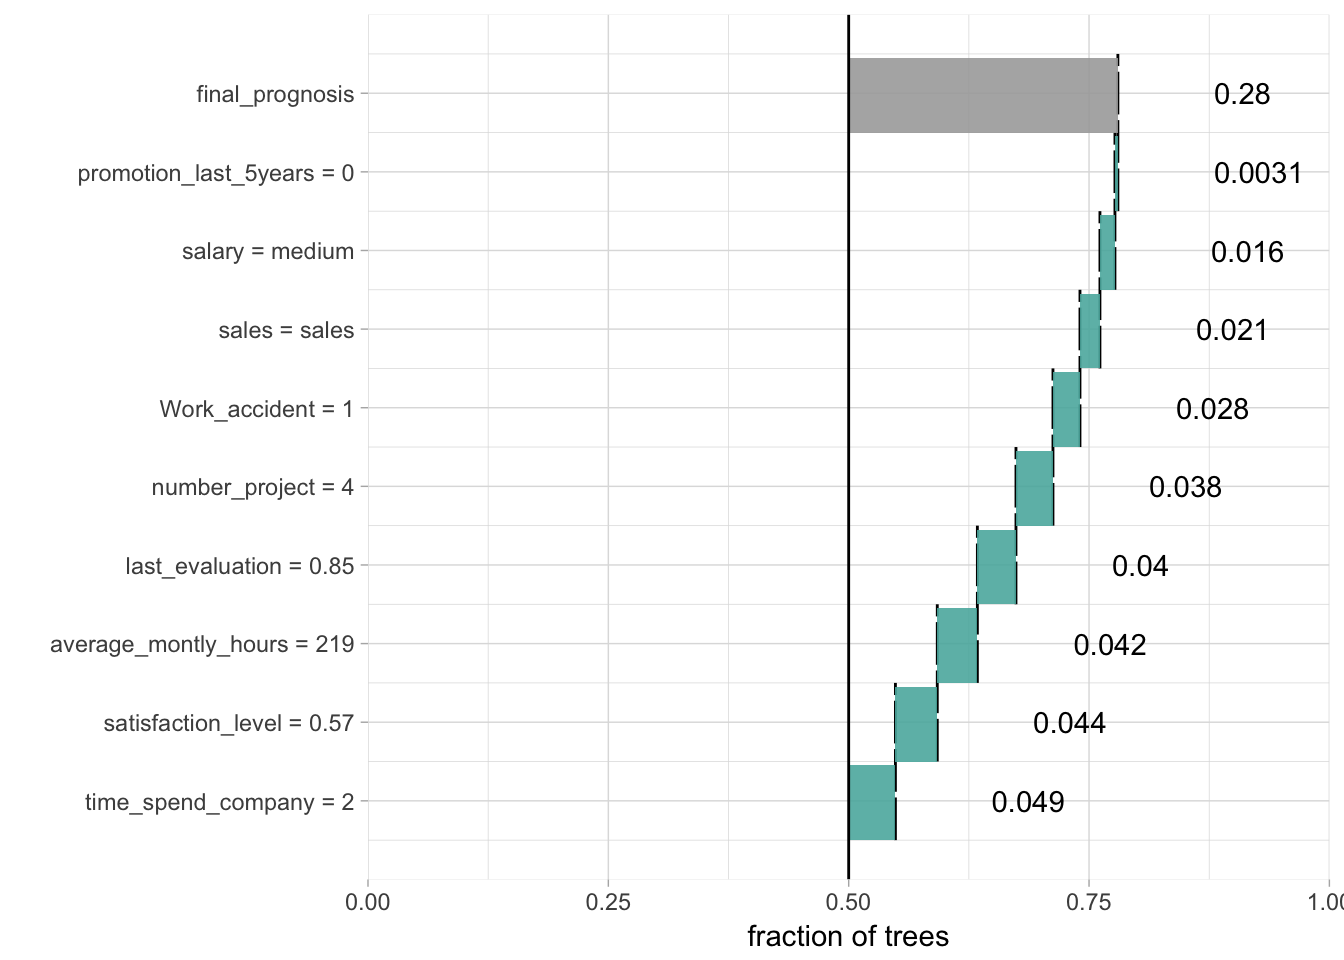
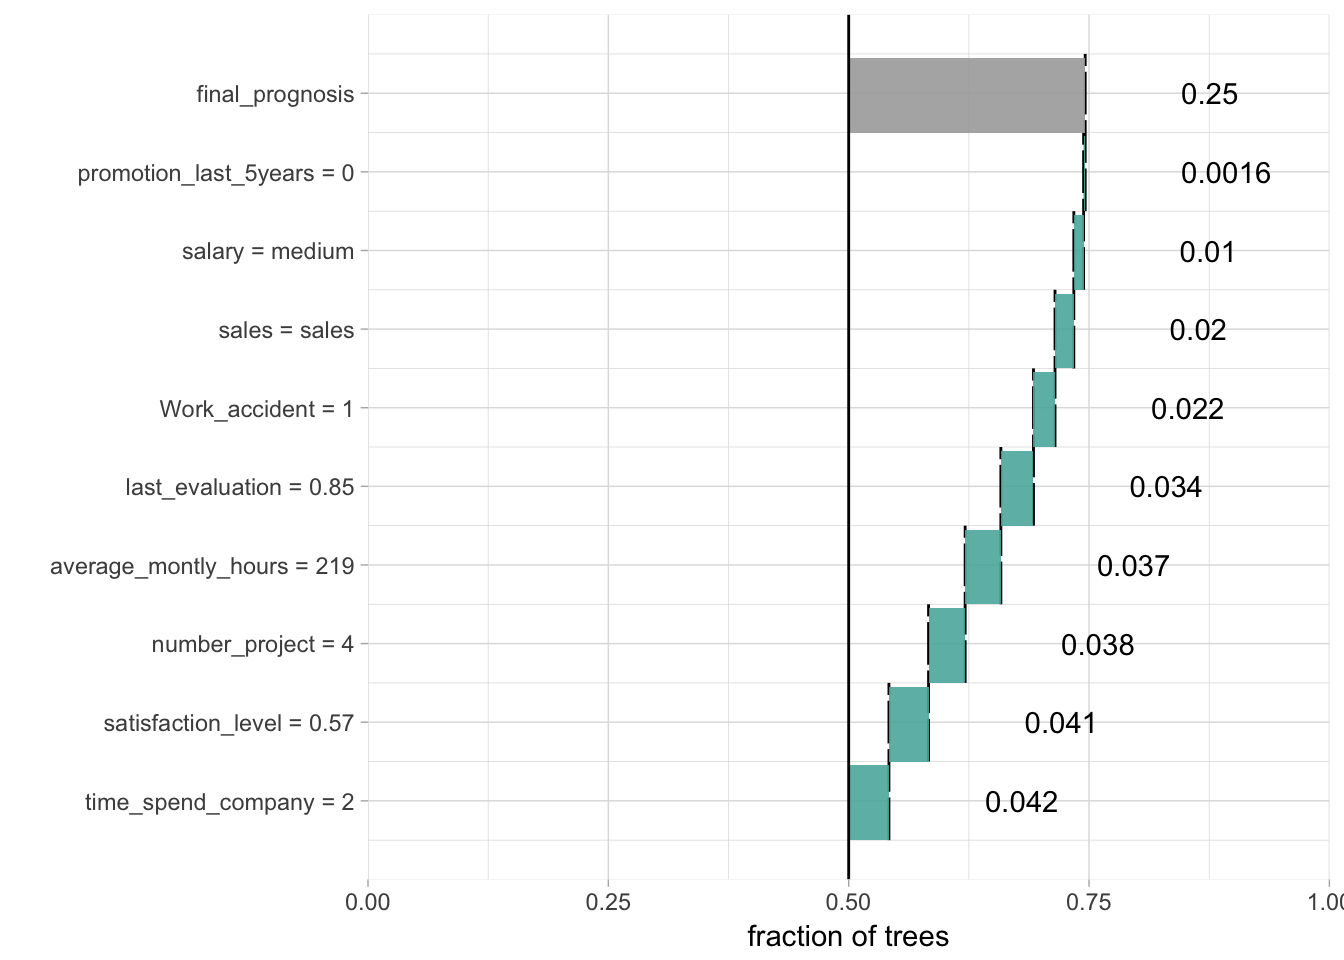
updated site

diff --git a/docs/articles/break_ranger.html b/docs/articles/break_ranger.html
@@ -76,7 +76,7 @@
       <h1>breakDown plots for the ranger model</h1>
                         <h4 class="author">Przemyslaw Biecek</h4>
             
-            <h4 class="date">2017-12-02</h4>
+            <h4 class="date">2017-12-03</h4>
           </div>
 
     
@@ -101,11 +101,11 @@ model &lt;-<span class="st"> </span><span class="kw"><a href="http://www.rdocume
 <p>Variable importance for all trees in the forest.</p>
 <div class="sourceCode"><pre class="sourceCode r"><code class="sourceCode r"><span class="kw"><a href="http://www.rdocumentation.org/packages/ranger/topics/importance.ranger">importance</a></span>(model)
 <span class="co">#&gt;    satisfaction_level       last_evaluation        number_project </span>
-<span class="co">#&gt;           1786.046899            618.803617            987.848183 </span>
+<span class="co">#&gt;           1816.329069            608.885685            976.219952 </span>
 <span class="co">#&gt;  average_montly_hours    time_spend_company         Work_accident </span>
-<span class="co">#&gt;            752.309013            989.511008             27.751059 </span>
+<span class="co">#&gt;            750.806656            982.629628             29.058430 </span>
 <span class="co">#&gt; promotion_last_5years                 sales                salary </span>
-<span class="co">#&gt;              4.687921             41.615393             29.416582</span></code></pre></div>
+<span class="co">#&gt;              4.098245             41.082905             29.091604</span></code></pre></div>
 <p>But how to understand which factors drive predictions for a single observation?</p>
 <p>With the <code>breakDown</code> package!</p>
 <p>Explanations for the trees votings.</p>
@@ -113,16 +113,16 @@ model &lt;-<span class="st"> </span><span class="kw"><a href="http://www.rdocume
 explain_<span class="dv">1</span> &lt;-<span class="st"> </span><span class="kw"><a href="../reference/broken.html">broken</a></span>(model, HR_data[<span class="dv">1159</span>,])
 explain_<span class="dv">1</span>
 <span class="co">#&gt;                            contribution</span>
-<span class="co">#&gt; time_spend_company = 2           0.0490</span>
-<span class="co">#&gt; satisfaction_level = 0.57        0.0440</span>
-<span class="co">#&gt; average_montly_hours = 219       0.0420</span>
-<span class="co">#&gt; last_evaluation = 0.85           0.0400</span>
+<span class="co">#&gt; time_spend_company = 2           0.0420</span>
+<span class="co">#&gt; satisfaction_level = 0.57        0.0410</span>
 <span class="co">#&gt; number_project = 4               0.0380</span>
-<span class="co">#&gt; Work_accident = 1                0.0280</span>
-<span class="co">#&gt; sales = sales                    0.0210</span>
-<span class="co">#&gt; salary = medium                  0.0160</span>
-<span class="co">#&gt; promotion_last_5years = 0        0.0031</span>
-<span class="co">#&gt; final_prognosis                  0.2800</span>
+<span class="co">#&gt; average_montly_hours = 219       0.0370</span>
+<span class="co">#&gt; last_evaluation = 0.85           0.0340</span>
+<span class="co">#&gt; Work_accident = 1                0.0220</span>
+<span class="co">#&gt; sales = sales                    0.0200</span>
+<span class="co">#&gt; salary = medium                  0.0100</span>
+<span class="co">#&gt; promotion_last_5years = 0        0.0016</span>
+<span class="co">#&gt; final_prognosis                  0.2500</span>
 <span class="co">#&gt; baseline:  0.5</span>
 <span class="kw">plot</span>(explain_<span class="dv">1</span>) <span class="op">+</span><span class="st"> </span><span class="kw"><a href="http://www.rdocumentation.org/packages/ggplot2/topics/scale_continuous">scale_y_continuous</a></span>( <span class="dt">limits =</span> <span class="kw">c</span>(<span class="dv">0</span>,<span class="dv">1</span>), <span class="dt">name =</span> <span class="st">"fraction of trees"</span>, <span class="dt">expand =</span> <span class="kw">c</span>(<span class="dv">0</span>,<span class="dv">0</span>))
 <span class="co">#&gt; Scale for 'y' is already present. Adding another scale for 'y', which</span>
@@ -132,16 +132,16 @@ explain_<span class="dv">1</span>
 explain_<span class="dv">1</span> &lt;-<span class="st"> </span><span class="kw"><a href="../reference/broken.html">broken</a></span>(model, HR_data[<span class="dv">10099</span>,])
 explain_<span class="dv">1</span>
 <span class="co">#&gt;                            contribution</span>
-<span class="co">#&gt; time_spend_company = 5           -0.050</span>
-<span class="co">#&gt; average_montly_hours = 266       -0.050</span>
-<span class="co">#&gt; satisfaction_level = 0.73        -0.050</span>
-<span class="co">#&gt; last_evaluation = 0.83           -0.049</span>
-<span class="co">#&gt; number_project = 5               -0.049</span>
-<span class="co">#&gt; salary = low                     -0.026</span>
-<span class="co">#&gt; Work_accident = 0                -0.024</span>
-<span class="co">#&gt; sales = sales                    -0.019</span>
-<span class="co">#&gt; promotion_last_5years = 0        -0.013</span>
-<span class="co">#&gt; final_prognosis                  -0.330</span>
+<span class="co">#&gt; time_spend_company = 5          -0.0440</span>
+<span class="co">#&gt; satisfaction_level = 0.73       -0.0440</span>
+<span class="co">#&gt; average_montly_hours = 266      -0.0440</span>
+<span class="co">#&gt; number_project = 5              -0.0430</span>
+<span class="co">#&gt; last_evaluation = 0.83          -0.0430</span>
+<span class="co">#&gt; salary = low                    -0.0220</span>
+<span class="co">#&gt; sales = sales                   -0.0190</span>
+<span class="co">#&gt; Work_accident = 0               -0.0150</span>
+<span class="co">#&gt; promotion_last_5years = 0       -0.0083</span>
+<span class="co">#&gt; final_prognosis                 -0.2800</span>
 <span class="co">#&gt; baseline:  0.5</span>
 <span class="kw">plot</span>(explain_<span class="dv">1</span>) <span class="op">+</span><span class="st"> </span><span class="kw"><a href="http://www.rdocumentation.org/packages/ggplot2/topics/scale_continuous">scale_y_continuous</a></span>( <span class="dt">limits =</span> <span class="kw">c</span>(<span class="dv">0</span>,<span class="dv">1</span>), <span class="dt">name =</span> <span class="st">"fraction of trees"</span>, <span class="dt">expand =</span> <span class="kw">c</span>(<span class="dv">0</span>,<span class="dv">0</span>))
 <span class="co">#&gt; Scale for 'y' is already present. Adding another scale for 'y', which</span>

diff --git a/docs/reference/broken.glm.html b/docs/reference/broken.glm.html
@@ -144,7 +144,7 @@
 <span class='no'>new_observation</span> <span class='kw'>&lt;-</span> <span class='no'>wine</span>[<span class='fl'>1</span>,]
 <span class='no'>br</span> <span class='kw'>&lt;-</span> <span class='fu'><a href='broken.html'>broken</a></span>(<span class='no'>modelg</span>, <span class='no'>new_observation</span>)
 <span class='no'>logit</span> <span class='kw'>&lt;-</span> <span class='kw'>function</span>(<span class='no'>x</span>) <span class='fu'>exp</span>(<span class='no'>x</span>)/(<span class='fl'>1</span>+<span class='fu'>exp</span>(<span class='no'>x</span>))
-<span class='fu'>plot</span>(<span class='no'>br</span>, <span class='no'>logit</span>)</div><div class='img'><img src='broken.glm-28.png' alt='' width='700' height='432.632880098887' /></div><div class='input'>
+<span class='fu'>plot</span>(<span class='no'>br</span>, <span class='no'>logit</span>)</div><div class='img'><img src='broken.glm-31.png' alt='' width='700' height='432.632880098887' /></div><div class='input'>
 <span class='co'># example for HR_data</span>
 <span class='no'>model</span> <span class='kw'>&lt;-</span> <span class='fu'>glm</span>(<span class='no'>left</span>~<span class='no'>.</span>, <span class='kw'>data</span> <span class='kw'>=</span> <span class='no'>HR_data</span>, <span class='kw'>family</span> <span class='kw'>=</span> <span class='st'>"binomial"</span>)
 <span class='no'>explain_1</span> <span class='kw'>&lt;-</span> <span class='fu'><a href='broken.html'>broken</a></span>(<span class='no'>model</span>, <span class='no'>HR_data</span>[<span class='fl'>1</span>,])
@@ -160,7 +160,7 @@
 #&gt; promotion_last_5years = 0         0.030
 #&gt; sales = sales                     0.014
 #&gt; final_prognosis                   0.120
-#&gt; baseline:  0 </div><div class='input'><span class='fu'>plot</span>(<span class='no'>explain_1</span>)</div><div class='img'><img src='broken.glm-29.png' alt='' width='700' height='432.632880098887' /></div><div class='input'><span class='fu'>plot</span>(<span class='no'>explain_1</span>, <span class='kw'>trans</span> <span class='kw'>=</span> <span class='kw'>function</span>(<span class='no'>x</span>) <span class='fu'>exp</span>(<span class='no'>x</span>)/(<span class='fl'>1</span>+<span class='fu'>exp</span>(<span class='no'>x</span>)))</div><div class='img'><img src='broken.glm-30.png' alt='' width='700' height='432.632880098887' /></div><div class='input'>
+#&gt; baseline:  0 </div><div class='input'><span class='fu'>plot</span>(<span class='no'>explain_1</span>)</div><div class='img'><img src='broken.glm-32.png' alt='' width='700' height='432.632880098887' /></div><div class='input'><span class='fu'>plot</span>(<span class='no'>explain_1</span>, <span class='kw'>trans</span> <span class='kw'>=</span> <span class='kw'>function</span>(<span class='no'>x</span>) <span class='fu'>exp</span>(<span class='no'>x</span>)/(<span class='fl'>1</span>+<span class='fu'>exp</span>(<span class='no'>x</span>)))</div><div class='img'><img src='broken.glm-33.png' alt='' width='700' height='432.632880098887' /></div><div class='input'>
 </div></pre>
   </div>
   <div class="col-md-3 hidden-xs hidden-sm" id="sidebar">

diff --git a/docs/reference/broken.ranger.html b/docs/reference/broken.ranger.html
@@ -157,7 +157,7 @@
 #&gt; Work_accident = 0                0.0016
 #&gt; final_prognosis                  0.0300
 #&gt; baseline:  0.5 </div><div class='input'><span class='fu'>plot</span>(<span class='no'>explain_1</span>) + <span class='fu'>ggtitle</span>(<span class='st'>"breakDown plot for linear predictors of leaving the company"</span>)+ <span class='fu'>scale_y_continuous</span>( <span class='kw'>limits</span> <span class='kw'>=</span> <span class='fu'>c</span>(<span class='fl'>0</span>,<span class='fl'>1</span>), <span class='kw'>name</span> <span class='kw'>=</span> <span class='st'>"fraction of trees"</span>, <span class='kw'>expand</span> <span class='kw'>=</span> <span class='fu'>c</span>(<span class='fl'>0.1</span>,<span class='fl'>0.1</span>))</div><div class='output co'>#&gt; <span class='message'>Scale for 'y' is already present. Adding another scale for 'y', which will</span>
-#&gt; <span class='message'>replace the existing scale.</span></div><div class='img'><img src='broken.ranger-5.png' alt='' width='700' height='432.632880098887' /></div><div class='input'>
+#&gt; <span class='message'>replace the existing scale.</span></div><div class='img'><img src='broken.ranger-6.png' alt='' width='700' height='432.632880098887' /></div><div class='input'>
 </div></pre>
   </div>
   <div class="col-md-3 hidden-xs hidden-sm" id="sidebar">

diff --git a/docs/reference/broken.lm.html b/docs/reference/broken.lm.html
@@ -139,7 +139,7 @@
     <pre class="examples"><div class='input'><span class='no'>model</span> <span class='kw'>&lt;-</span> <span class='fu'>lm</span>(<span class='no'>Sepal.Length</span>~<span class='no'>.</span>, <span class='kw'>data</span><span class='kw'>=</span><span class='no'>iris</span>)
 <span class='no'>new_observation</span> <span class='kw'>&lt;-</span> <span class='no'>iris</span>[<span class='fl'>1</span>,]
 <span class='no'>br</span> <span class='kw'>&lt;-</span> <span class='fu'><a href='broken.html'>broken</a></span>(<span class='no'>model</span>, <span class='no'>new_observation</span>)
-<span class='fu'>plot</span>(<span class='no'>br</span>)</div><div class='img'><img src='broken.lm-10.png' alt='' width='700' height='432.632880098887' /></div></pre>
+<span class='fu'>plot</span>(<span class='no'>br</span>)</div><div class='img'><img src='broken.lm-11.png' alt='' width='700' height='432.632880098887' /></div></pre>
   </div>
   <div class="col-md-3 hidden-xs hidden-sm" id="sidebar">
     <h2>Contents</h2>

diff --git a/docs/index.html b/docs/index.html
@@ -83,6 +83,11 @@
 <a href="#install-from-github" class="anchor"></a>Install from GitHub</h2>
 <pre><code><a href="http://www.rdocumentation.org/packages/devtools/topics/install_github">devtools::install_github("pbiecek/breakDown")</a></code></pre>
 </div>
+<div id="cheatsheets" class="section level2">
+<h2 class="hasAnchor">
+<a href="#cheatsheets" class="anchor"></a>Cheatsheets</h2>
+<p><img src="https://raw.githubusercontent.com/pbiecek/breakDown/master/cheatsheets/breakDownCheatsheet.png" alt="Cheatsheet"></p>
+</div>
 <div id="example-for-lm-model" class="section level2">
 <h2 class="hasAnchor">
 <a href="#example-for-lm-model" class="anchor"></a>Example for lm model</h2>

diff --git a/docs/articles/break_glm.html b/docs/articles/break_glm.html
@@ -76,7 +76,7 @@
       <h1>breakDown plots for the generalised linear model</h1>
                         <h4 class="author">Przemyslaw Biecek</h4>
             
-            <h4 class="date">2017-12-02</h4>
+            <h4 class="date">2017-12-03</h4>
           </div>
 
     

diff --git a/docs/articles/break_lm.html b/docs/articles/break_lm.html
@@ -76,7 +76,7 @@
       <h1>breakDown plots for the linear model</h1>
                         <h4 class="author">Przemyslaw Biecek</h4>
             
-            <h4 class="date">2017-12-02</h4>
+            <h4 class="date">2017-12-03</h4>
           </div>
 
     
